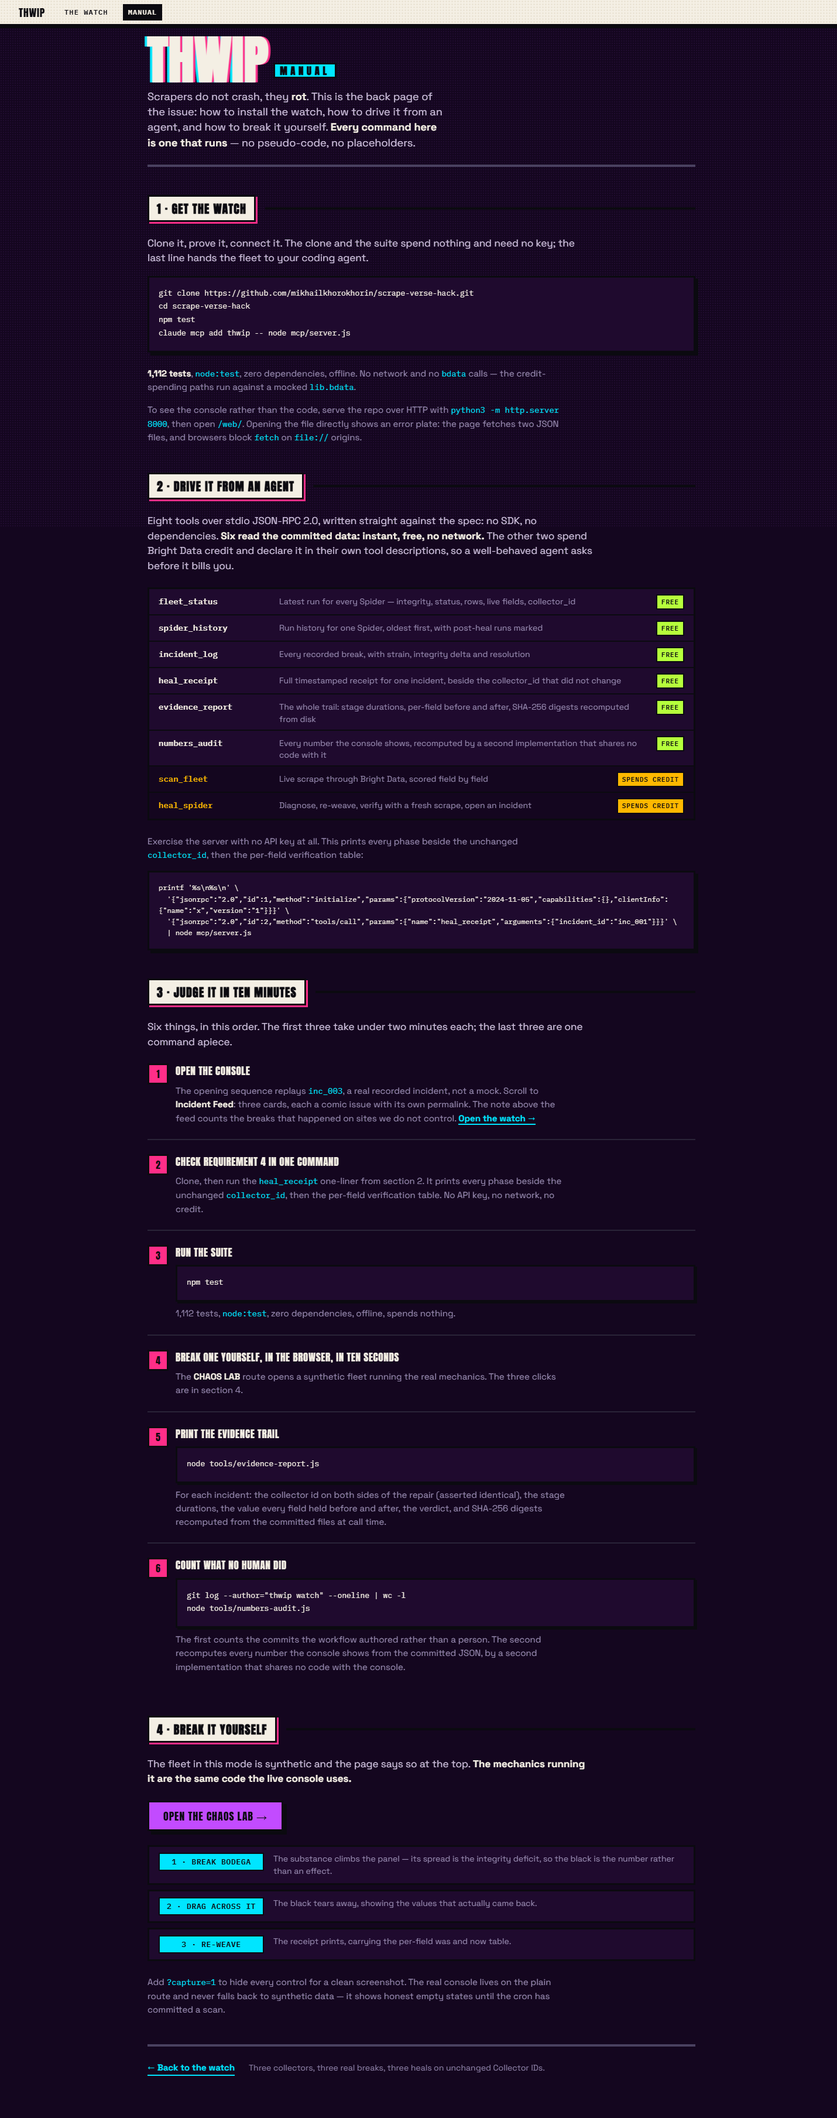
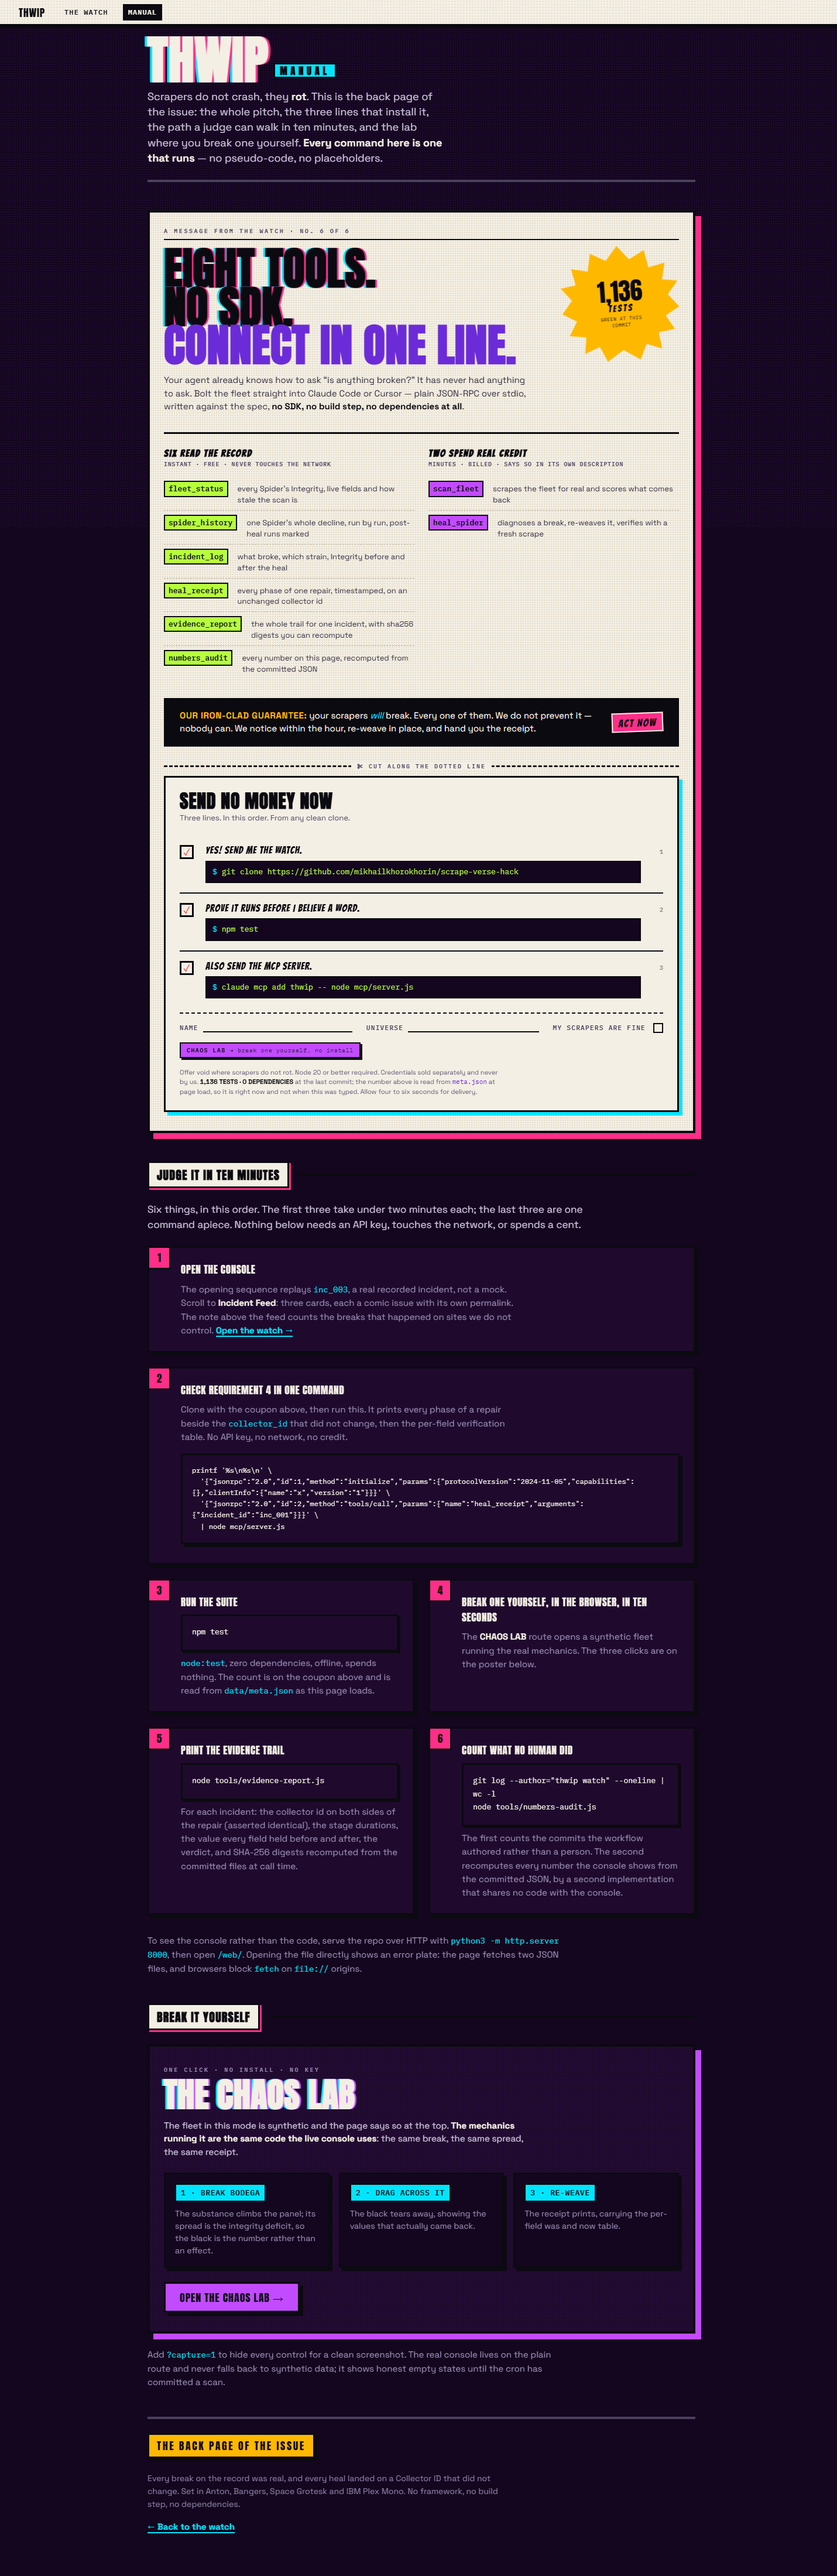
ci: a gate of its own — lint, tests, zero deps, the line cap

Changed region(s): [[0.0, 0.0, 0.8615, 0.9997]]

diff --git a/test/web/manual.test.js b/test/web/manual.test.js
@@ -16,7 +16,6 @@ const pagenavJs = fs.readFileSync(modulePath('pagenav.js'), 'utf8');
 const pagenavCss = fs.readFileSync(cssPath('pagenav.css'), 'utf8');
 const readme = fs.readFileSync(path.join(ROOT, 'README.md'), 'utf8');
 const submission = fs.readFileSync(path.join(ROOT, 'docs', 'SUBMISSION.md'), 'utf8');
-
 const ad = loadWebModule(['config.js', 'format.js', 'ad.js']);
 const meta = JSON.parse(fs.readFileSync(path.join(ROOT, 'data', 'meta.json'), 'utf8'));
 const adMarkup = ad.adHTML(meta);
@@ -68,12 +67,9 @@ test('the mount reuses the ad builders instead of duplicating a word of the pitc
   });
 });
 
-test('the mount reads the count from meta.json, and never from a literal in its own source', () => {
+test('the mount fetches meta.json and still paints a readable ad if that fails', () => {
   assert.match(manualJs, /fetch\(MANUAL_META_URL/);
   assert.match(manualJs, /"data\/meta\.json"/);
-});
-
-test('the mount paints a readable ad before the fetch and after a failed one', () => {
   assert.match(manualJs, /manualMountAd\(MANUAL_FALLBACK_META\)/);
   assert.match(manualJs, /\.catch\(/);
   assert.match(manualJs, /manualUsableMeta/);
@@ -91,28 +87,6 @@ test('the test count on the page is the count the committed meta.json records', 
   assert.ok(adMarkup.includes(claimed + ' TESTS'), 'the ad drifted from meta.json');
   assert.ok(readme.includes(claimed + ' tests'), 'the README drifted from meta.json');
   assert.ok(submission.includes(claimed + ' tests'), 'SUBMISSION drifted from meta.json');
-});
-
-test('the ad the manual renders carries the whole pitch the console gave up', () => {
-  assert.match(adMarkup, /A MESSAGE FROM THE WATCH &middot; NO\. 6 OF 6/);
-  assert.match(adMarkup, /EIGHT TOOLS\./);
-  assert.match(adMarkup, /OUR IRON-CLAD GUARANTEE:/);
-  assert.match(adMarkup, /CUT ALONG THE DOTTED LINE/);
-  assert.match(adMarkup, /SEND NO MONEY NOW/);
-});
-
-test('all eight MCP tools reach the page through the ad, each exactly once', () => {
-  const tools = [
-    'fleet_status', 'spider_history', 'incident_log', 'heal_receipt',
-    'evidence_report', 'numbers_audit', 'scan_fleet', 'heal_spider',
-  ];
-  tools.forEach((name) => {
-    const hits = adMarkup.match(new RegExp('<code class="ad__toolname">' + name + '</code>', 'g')) || [];
-    assert.equal(hits.length, 1, name + ' is not listed exactly once');
-  });
-  assert.equal(ad.AD_FREE_TOOLS.length, 6);
-  assert.equal(ad.AD_PAID_TOOLS.length, 2);
-  assert.equal((adMarkup.match(/ad__tool--paid/g) || []).length, 2);
 });
 
 test('the install instructions the manual shows are the coupon, and they are the real ones', () => {
@@ -173,6 +147,8 @@ test('the chaos lab block is a poster, and the three clicks are its panels', () 
   const poster = manualCss.slice(manualCss.indexOf('.poster{'), manualCss.indexOf('.poster::before'));
   assert.match(poster, /border:4px solid var\(--ink\)/);
   assert.match(poster, /box-shadow:10px 10px 0 var\(--infected\)/);
+  assert.match(manual, /fleet in this mode is synthetic/);
+  assert.match(manual, /the same code the live console uses/);
 });
 
 test('the manual stands on the console halftone ground, not a flat body', () => {
@@ -181,44 +157,26 @@ test('the manual stands on the console halftone ground, not a flat body', () => 
   assert.match(poster, /radial-gradient\(var\(--void-dot\) 1px,transparent 1\.4px\)/);
 });
 
-test('the manual says the mock fleet is synthetic, as the chaos lab itself does', () => {
-  assert.match(manual, /fleet in this mode is synthetic/);
-  assert.match(manual, /the same code the live console uses/);
-});
-
-test('the foot names the page as the back page of the issue', () => {
+test('the foot names the page as the back page and leads back to the console', () => {
   const foot = manual.slice(manual.indexOf('<footer'));
   assert.match(foot, /THE BACK PAGE OF THE ISSUE/);
   assert.match(foot, /href="index\.html"/);
   assert.match(manualCss, /\.manfoot__colophon\{/);
-});
-
-test('the manual leads back to the console from the nav and from the foot', () => {
   const nav = manual.slice(manual.indexOf('<nav'), manual.indexOf('</nav>'));
   assert.match(nav, /href="index\.html"/);
 });
 
-test('the console nav gains one page link, and it points at the manual', () => {
+test('the console nav gains one page link, drawn as a section link but never current', () => {
   assert.match(pagenavJs, /const PAGENAV_PAGES = /);
   assert.match(pagenavJs, /href: "manual\.html", label: "MANUAL"/);
-  const pages = pagenavJs.match(/\{ href: /g) || [];
-  assert.equal(pages.length, 1, 'the nav should gain exactly one cross-page link');
-});
-
-test('the page link is rendered by the same nav markup the sections use', () => {
+  assert.equal((pagenavJs.match(/\{ href: /g) || []).length, 1);
   assert.match(pagenavJs, /class="pagenav__link pagenav__link--page"/);
   assert.match(pagenavCss, /\.pagenav__link--page/);
-});
-
-test('the cross-page link carries no data-nav, so scroll-spy never marks it current', () => {
   const markup = pagenavJs.slice(
     pagenavJs.indexOf('const pages = '),
     pagenavJs.indexOf('return \'<span class="pagenav__mark"')
   );
   assert.doesNotMatch(markup, /data-nav/);
-});
-
-test('the manual nav marks the manual as the current page for a screen reader', () => {
   assert.match(manual, /class="pagenav__link is-here" href="manual\.html" aria-current="page"/);
 });
 
@@ -238,32 +196,15 @@ test('nothing on the manual animates through a reduced-motion preference', () =>
   assert.equal((manualCss.match(/@keyframes/g) || []).length, 0);
 });
 
-test('the ad brings no animation of its own onto the manual', () => {
-  assert.equal((adCss.match(/@keyframes/g) || []).length, 0);
-  const reduced = adCss.slice(adCss.indexOf('@media(prefers-reduced-motion:reduce)'));
-  assert.match(reduced, /transition:none/);
-  assert.match(reduced, /transform:none/);
-});
-
-test('the manual carries a print block, because a judge may print it', () => {
+test('a printed manual drops the chrome and keeps the ad in ink on paper', () => {
   assert.match(manualCss, /@media print/);
   const print = manualCss.slice(manualCss.indexOf('@media print'));
   assert.match(print, /\.pagenav\{display:none !important;\}/);
   assert.match(print, /white-space:pre-wrap/);
   assert.match(print, /page-break-inside:avoid/);
-});
-
-test('the printed manual keeps the ad, in ink on paper, with its commands unwrapped', () => {
-  const print = manualCss.slice(manualCss.indexOf('@media print'));
   assert.match(print, /\.ad\{[^}]*background:#fff/);
   assert.match(print, /\.ad__cmd\{[^}]*white-space:pre-wrap/);
   assert.doesNotMatch(print, /\.ad\{display:none/);
-});
-
-test('the ad hides on the console under capture and print, and only the teaser does', () => {
-  assert.match(adCss, /\.is-capture \.teaser\{display:none !important;\}/);
-  assert.match(adCss, /@media print\{\.teaser\{display:none !important;\}\}/);
-  assert.doesNotMatch(adCss, /\.is-capture \.ad\{display:none/);
 });
 
 test('no shadow on the manual is blurred, the way the rest of the issue is drawn', () => {
@@ -275,14 +216,10 @@ test('no shadow on the manual is blurred, the way the rest of the issue is drawn
   });
 });
 
-test('the manual keeps every corner square, as the design spec requires', () => {
-  const radii = manualCss.match(/border-radius:([^;]+)/g) || [];
-  radii.forEach((decl) => {
+test('corners stay square and body copy stays inside a readable measure', () => {
+  (manualCss.match(/border-radius:([^;]+)/g) || []).forEach((decl) => {
     assert.equal(decl, 'border-radius:0', decl + ' is not a comic corner');
   });
-});
-
-test('body copy on the manual stays inside a readable measure', () => {
   const measures = manualCss.match(/max-width:(\d+)ch/g) || [];
   assert.ok(measures.length > 0);
   measures.forEach((decl) => {

diff --git a/test/web/ad.test.js b/test/web/ad.test.js
@@ -4,7 +4,7 @@ const test = require('node:test');
 const assert = require('node:assert/strict');
 const fs = require('node:fs');
 const path = require('node:path');
-const { loadWebModule, modulePath } = require('../web-loader.js');
+const { loadWebModule, modulePath, cssPath } = require('../web-loader.js');
 
 const context = loadWebModule(['config.js', 'format.js', 'ad.js']);
 const {
@@ -178,4 +178,28 @@ test('the console mount renders the teaser and the manual builder renders the co
 
 test('the coupon chaos tag names the console explicitly, so it works from the manual too', () => {
   assert.match(adCouponHTML({ tests: 935 }), /href="index\.html\?mock=1"/);
+});
+
+test('the full ad still carries every beat the console used to show', () => {
+  const html = adHTML({ tests: 1136 });
+  assert.match(html, /A MESSAGE FROM THE WATCH &middot; NO\. 6 OF 6/);
+  assert.match(html, /OUR IRON-CLAD GUARANTEE:/);
+  assert.match(html, /CUT ALONG THE DOTTED LINE/);
+  assert.equal((html.match(/ad__tool--paid/g) || []).length, 2);
+  assert.equal(AD_FREE_TOOLS.length, 6);
+});
+
+test('the ad stylesheet brings no animation and no keyframes to the page it lands on', () => {
+  const css = fs.readFileSync(cssPath('ad.css'), 'utf8');
+  assert.equal((css.match(/@keyframes/g) || []).length, 0);
+  const reduced = css.slice(css.indexOf('@media(prefers-reduced-motion:reduce)'));
+  assert.match(reduced, /transition:none/);
+  assert.match(reduced, /transform:none/);
+});
+
+test('capture and print hide the console teaser and leave the manual its ad', () => {
+  const css = fs.readFileSync(cssPath('ad.css'), 'utf8');
+  assert.match(css, /\.is-capture \.teaser\{display:none !important;\}/);
+  assert.match(css, /@media print\{\.teaser\{display:none !important;\}\}/);
+  assert.doesNotMatch(css, /\.is-capture \.ad\{display:none/);
 });

diff --git a/web/css/manual.css b/web/css/manual.css
@@ -177,7 +177,7 @@
 
 @media print{
   @page{margin:12mm;size:A4 portrait;}
-  html,body{background:#fff;color:#000;overflow:visible;}
+  html,body,.manual-page{background:#fff;color:#000;overflow:visible;}
   body::before{display:none !important;}
   .pagenav{display:none !important;}
   .wrap{max-width:none;padding:0;margin:0;}
@@ -225,17 +225,17 @@
   .ad{border:1.5pt solid #000;box-shadow:none;background:#fff;color:#000;padding:3mm;}
   .ad::before,.ad__burst{display:none !important;}
   .ad__pitch{max-width:none;}
-  .ad__title,.ad__formhead{color:#000;text-shadow:none;font-size:16pt;}
+  .ad__title,.ad__formhead,.ad__titleline{color:#000;text-shadow:none;font-size:16pt;}
   .ad__lede,.ad__toolwhat,.ad__small,.ad__formsub,.ad__colnote{color:#000;}
   .ad__cols{grid-template-columns:minmax(0,1fr);}
-  .ad__toolname{background:none;border:.75pt solid #000;color:#000;}
+  .ad__toolname,.ad__tool--paid .ad__toolname{background:none;border:.75pt solid #000;color:#000;}
   .ad__guarantee{background:none;color:#000;border:1pt solid #000;}
   .ad__guarantee b,.ad__guarantee i,.ad__actnow{color:#000;background:none;border:0;transform:none;}
   .ad__form{border:1pt solid #000;box-shadow:none;}
   .ad__cmd{background:#fff;color:#000;border:.75pt solid #000;white-space:pre-wrap;overflow:visible;}
   .ad__cmdtext{white-space:pre-wrap;overflow-wrap:anywhere;}
   .ad__prompt{color:#000;}
-  .ad__chaos{background:none;color:#000;border:.75pt solid #000;box-shadow:none;}
+  .manual-page .ad__chaos{background:none;color:#000;border:.75pt solid #000;box-shadow:none;}
 
   .man__link{color:#000;border-bottom:.75pt solid #000;}
   .manfoot{border-top:1.5pt solid #000;}

diff --git a/web/manual.html b/web/manual.html
@@ -51,8 +51,7 @@
     <p class="man__note man__note--noscript">The advertisement above is drawn by
     <span class="mono">js/manual.js</span> so its test count is read live from
     <span class="mono">data/meta.json</span>. With scripting off, take the three lines from
-    the README: <span class="mono">git clone
-    https://github.com/mikhailkhorokhorin/scrape-verse-hack.git</span>, then
+    the README: <span class="mono">git clone https://github.com/mikhailkhorokhorin/scrape-verse-hack.git</span>, then
     <span class="mono">npm test</span>, then
     <span class="mono">claude mcp add thwip -- node mcp/server.js</span>.</p>
   </noscript>
@@ -154,9 +153,9 @@ node tools/numbers-audit.js</code></pre>
 
   <footer class="manfoot">
     <p class="manfoot__colophon">THE BACK PAGE OF THE ISSUE</p>
-    <p class="manfoot__note">Three collectors, three real breaks, three heals on unchanged
-    Collector IDs. Set in Anton, Bangers, Space Grotesk and IBM Plex Mono. No framework, no
-    build step, no dependencies.</p>
+    <p class="manfoot__note">Every break on the record was real, and every heal landed on a
+    Collector ID that did not change. Set in Anton, Bangers, Space Grotesk and IBM Plex Mono.
+    No framework, no build step, no dependencies.</p>
     <p class="manfoot__back"><a class="man__link" href="index.html">&larr; Back to the watch</a></p>
   </footer>
 

diff --git a/test/web/chaos-lab.test.js b/test/web/chaos-lab.test.js
@@ -111,3 +111,20 @@ test('the chaos lab tag carries a full touch target on a coarse pointer', () => 
   assert.match(coarse, /\.ad__chaos::after/);
   assert.match(coarse, /height:44px/);
 });
+
+test('the mock banner wears its styling in css, not in a javascript string', () => {
+  assert.doesNotMatch(fixtures, /style\.cssText/);
+  assert.match(mockCss, /\.mockflag\{/);
+});
+
+test('the chaos lab clears the sticky banner when a link scrolls to it', () => {
+  const block = mockCss.slice(mockCss.indexOf('.demobar{'), mockCss.indexOf('.demobar::before'));
+  assert.match(block, /scroll-margin-top:/);
+});
+
+test('the banner sits above the nav without reaching for a five figure z-index', () => {
+  const flag = mockCss.slice(mockCss.indexOf('.mockflag{'), mockCss.indexOf('}', mockCss.indexOf('.mockflag{')));
+  const z = Number((flag.match(/z-index:(\d+)/) || [])[1]);
+  assert.ok(z > 45, 'the banner must clear the page nav');
+  assert.ok(z < 100, 'z-index 9999 is a smell, not a layer');
+});

diff --git a/test/web/vitals/open-counts.test.js b/test/web/vitals/open-counts.test.js
@@ -199,9 +199,11 @@ test('the counters match the committed history and incidents exactly', () => {
     incidents.filter((inc) => (inc.stages || []).some((s) => s.stage === 'VERIFIED')).length);
 });
 
-test('the thesis over the committed incidents names three spiders inside four hours', () => {
+test('the thesis over the committed incidents claims every spider, and means it', () => {
   const incidents = readFixture('incidents.json');
+  const taken = new Set(incidents.map((inc) => inc.spider || inc.who));
   const thesis = openThesisOf(incidents, [1, 2, 3], NOW);
-  assert.equal(thesis,
-    'EVERY SPIDER ON THIS PAGE HAS BEEN TAKEN. ALL THREE, ON 21 AUG, INSIDE FOUR HOURS.');
+  assert.equal(taken.size, 3, 'all three spiders have been taken at least once');
+  assert.match(thesis, /^EVERY SPIDER ON THIS PAGE HAS BEEN TAKEN\./);
+  assert.match(thesis, /INSIDE \d+ HOURS\.$/);
 });

diff --git a/web/js/mock/fixtures.js b/web/js/mock/fixtures.js
@@ -66,11 +66,6 @@ function mountMockBanner() {
   const flag = document.createElement("div");
   flag.className = "mockflag";
   flag.setAttribute("role", "status");
-  flag.style.cssText =
-    "position:sticky;top:0;z-index:9999;display:block;width:100%;box-sizing:border-box;" +
-    "padding:.55rem 1rem;background:#C24BFF;color:#0B0614;font-weight:800;" +
-    "letter-spacing:.12em;text-transform:uppercase;font-size:.72rem;text-align:center;" +
-    "border-bottom:3px solid #0B0614";
   flag.textContent =
     "Synthetic data — ?mock=1 fixtures, not a live fleet. Drop the query string for the real watch.";
   document.body.insertBefore(flag, document.body.firstChild);

diff --git a/web/css/mock/mock.css b/web/css/mock/mock.css
@@ -1,5 +1,13 @@
+.mockflag{
+  position:sticky;top:0;z-index:60;display:block;width:100%;box-sizing:border-box;
+  padding:.55rem 1rem;background:var(--infected);color:var(--ink);
+  font-weight:800;letter-spacing:.12em;text-transform:uppercase;
+  font-size:var(--t-micro);text-align:center;border-bottom:3px solid var(--ink);
+}
+
 .demobar{
   position:relative;z-index:20;margin:var(--s4) 0 var(--s3);
+  scroll-margin-top:96px;
   background:var(--paper);color:var(--ink);
   border:4px solid var(--ink);
   box-shadow:10px 10px 0 var(--infected);
